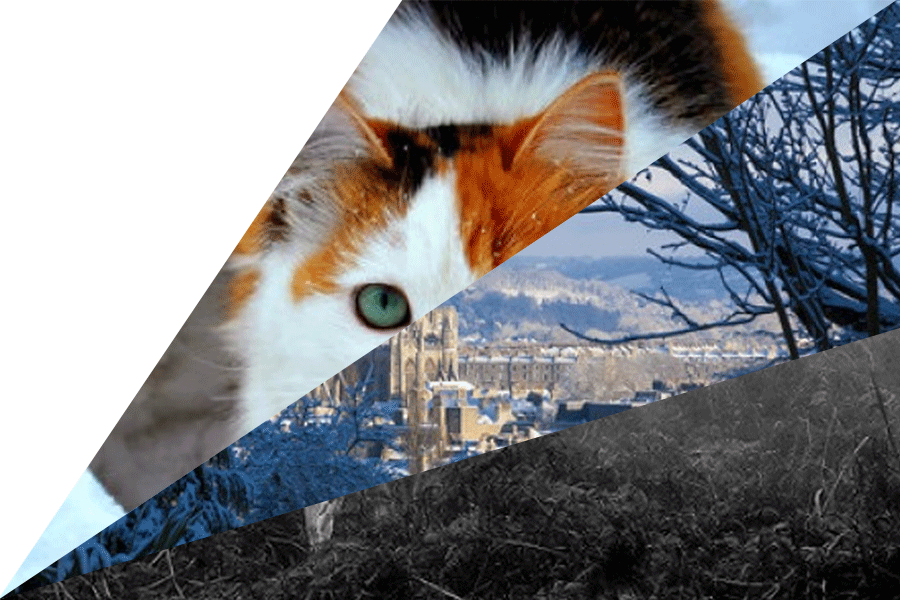
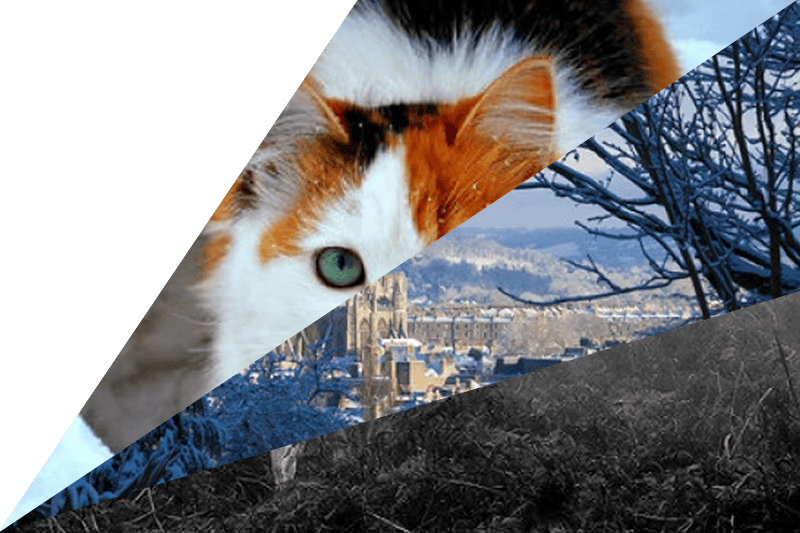
animation updated: :

diff --git a/style.css b/style.css
@@ -1,5 +1,5 @@
 body {
-    background-color: red;
+    background-color: #7659b9;
 }
 
 .intro-text {
@@ -8,7 +8,7 @@ body {
     left: 30%;
     height: 343px;
     width: 40%;
-    margin-top: -172.5px;
+    margin-top: -177.5px;
     color: #feee44;
     text-align: center;
     font-family: 'helvetica';
@@ -21,7 +21,7 @@ body {
     padding-top: 20px;
     margin-top: 0;
     margin-bottom: 0;
-    font-size: 10vmin;
+    font-size: 60px;
 }
 
 .intro-text div {
@@ -36,13 +36,13 @@ body {
     left: 0;
     right: 0;
     bottom: 0;
-    background-color: purple;
-    z-index: 3000;
-    background: url('img/screen.jpg') no-repeat center center;
+    background: url('img/screen.jpg') no-repeat no-repeat center center; 
     -webkit-background-size: cover;
     -moz-background-size: cover;
     -o-background-size: cover;
     background-size: cover;
+    z-index: 3000;
+    /*transition: background 2s linear;*/
 }
 
 .quad-1,
@@ -76,7 +76,7 @@ body {
 }
 
 .quad-1 .one {
-    background: url("img/p-1.jpg") no-repeat scroll right bottom/cover transparent; 
+    background: url("img/p-1.png") no-repeat scroll right bottom/cover transparent; 
     z-index: 550;   
 }
 
@@ -117,7 +117,7 @@ body {
 }
 
 .quad-2 .one {
-    background: url("img/p-5.jpg") no-repeat scroll left bottom/cover transparent; 
+    background: url("img/p-5.png") no-repeat scroll left bottom/cover transparent; 
     z-index: 550;   
 }
 
@@ -157,7 +157,7 @@ body {
 }
 
 .quad-3 .one {
-    background: url("img/p-9.jpg") no-repeat scroll left top/cover transparent; 
+    background: url("img/p-9.png") no-repeat scroll left top/cover transparent; 
     z-index: 550;   
 }
 
@@ -197,7 +197,7 @@ body {
 }
 
 .quad-4 .one {
-    background: url("img/p-13.jpg") no-repeat scroll right top/cover transparent; 
+    background: url("img/p-13.png") no-repeat scroll right top/cover transparent; 
     z-index: 550;   
 }
 
@@ -218,14 +218,23 @@ body {
 
 #musicVideo {
     position: fixed; 
-    top: 0px;
+    top: -5%;
     right: 0px; 
     bottom: 0px;
-    left: 0px;
-    min-width: 100%; 
-    min-height: 100%;
+    left: -5%;
+    min-width: 110%; 
+    min-height: 110%;
     width: auto; 
     height: auto; 
     z-index: 0;
     background-size: cover;
 }
+
+@media all and (max-width: 640px) {
+    .intro-text {
+        width: 300px;
+        left: 50%;
+        margin-left: -150px;
+    }
+}
+

diff --git a/canvas_draw.js b/canvas_draw.js
@@ -1,27 +1,33 @@
 $(document).ready(function () {
      $(".quad-1, .quad-2, .quad-3, .quad-4").hide(0);
-     $('#musicVideo').hide(0);
-
+     $('#musicVideo, .screen').hide(0);
 });
 
 $(window).bind("load", function() {
-     setTimeout(function() { showPizza()}, 0);
-     setTimeout(function() { hidePizza()}, 3000);
+
+     
+     $('.screen').fadeIn(1700);
+     //setTimeout(function() { showPizza()}, 2000);
+     //setTimeout(function() { hidePizza()}, 5000);
 
 });
       
 
+     /*$('#elem').fadeTo('slow', 0.3, function() {
+         $(this).css('background-image', 'url(' + $img + ')');
+     }).delay(1000).fadeTo('slow', 1);    */  
+
 function showPizza(){
      $('#musicVideo').show(0);
      $(".quad-1, .quad-2, .quad-3, .quad-4").show();
-     $(".screen").delay(3000).hide(0);
+     $(".screen").delay(1000).hide(0);
      console.log('locked and loaded')
 
 };
 
 function hidePizza(){
 
-     var speed = 305;
+     var speed = 105;
 
      $(".quad-1 .one").hide(0);
      console.log('animation has begun!');
@@ -50,7 +56,6 @@ function hidePizza(){
      $(".quad-4 .three").delay(speed*14).hide(0);
      $(".quad-4 .four").delay(speed*15).hide(0);
 
-     $(".quad-1, .quad-2, .quad-3, .quad-4").delay(speed*16).hide(0);
-     console.log("video buttons avail")
+     $(".intro-text, .quad-1, .quad-2, .quad-3, .quad-4").delay(speed*15).fadeOut(1000);
 };
 

diff --git a/index.html b/index.html
@@ -48,8 +48,7 @@
 		<img src="img/p-4.png">
 	</div>
 
-	<iframe id="musicVideo" width="560" height="315" src="//www.youtube.com/embed/DwHoh2vNdiA?rel=0&autoplay=1" frameborder="0" allowfullscreen></iframe>
-
+	<iframe id="musicVideo" width="560" height="315" src="//www.youtube.com/embed/bFxN_DawtOw?rel=0&autoplay=1" frameborder="0" allowfullscreen></iframe>
 		
 
 	<script type="text/javascript" src="http://code.jquery.com/jquery-2.0.3.min.js"></script>
